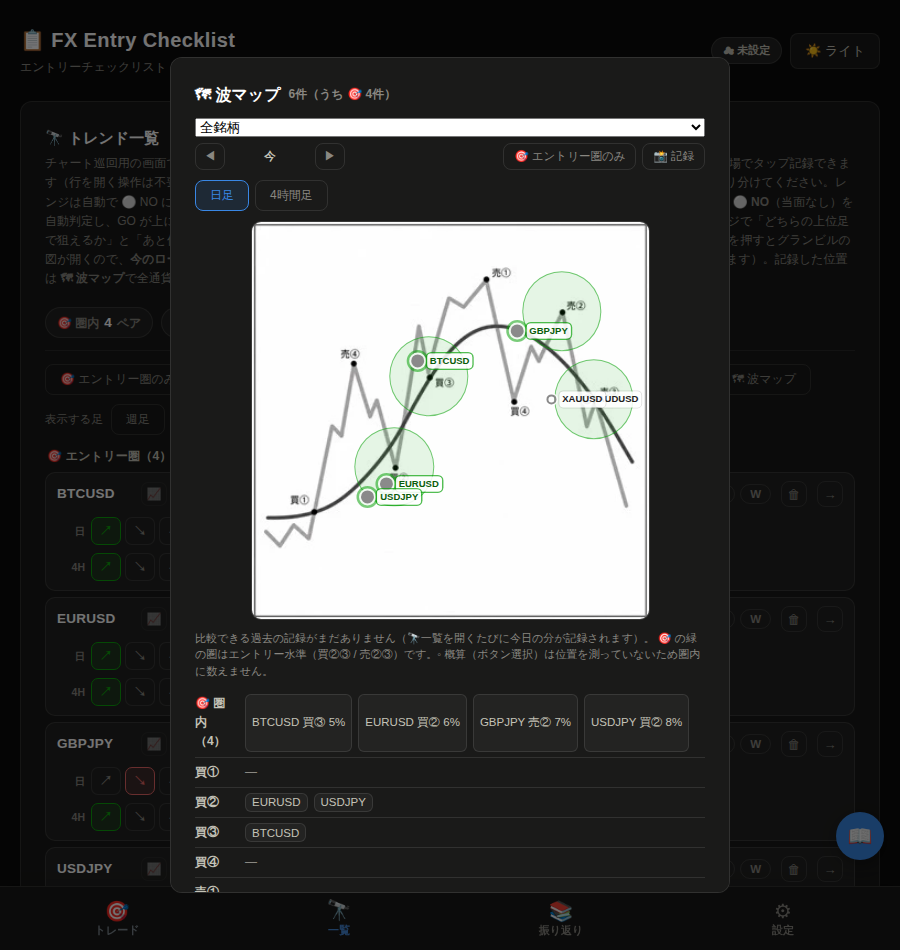
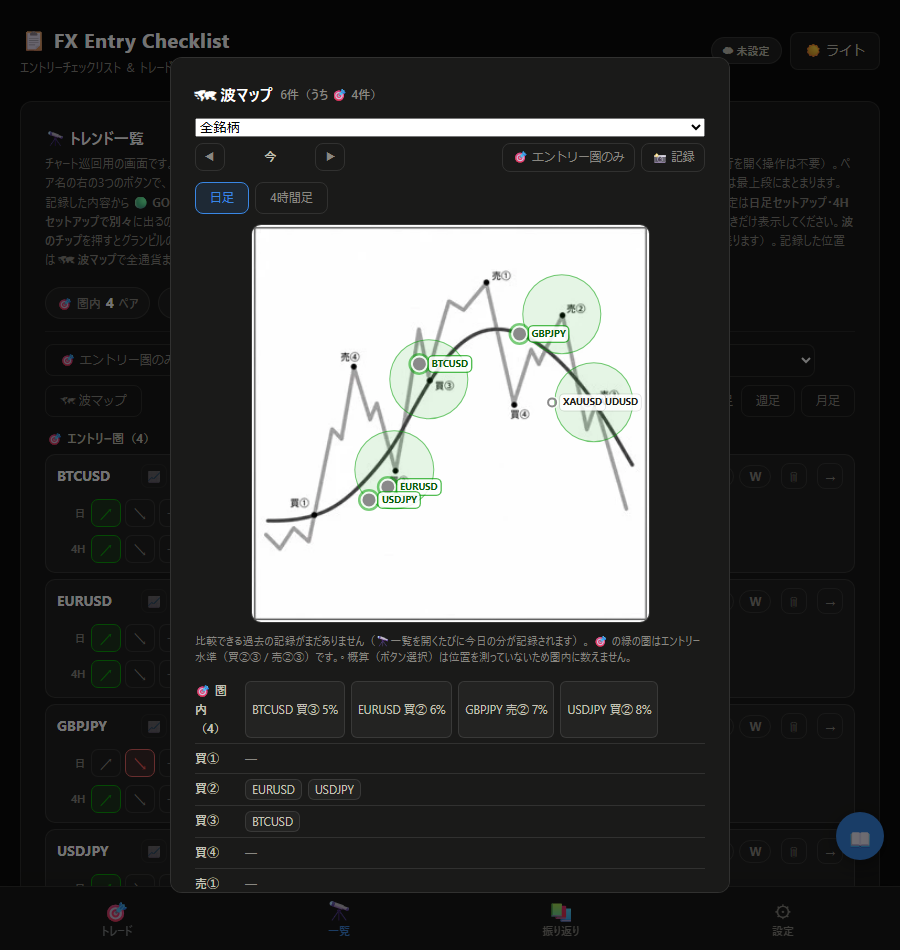
S48: 🎯根拠ボタンを常時表示に変更（圏内は強調、圏外は中立色）
ユースケース: エントリー圏外のうちからRCI/MACDなどの根拠をあらかじめ記録して
おき、条件が揃うほど達成%（確度スコア）が上がり、段階的にエントリー準備を
整える運用を実現。

実装:
- trendEntryChipHtml(): 距離がnullや圏外でも常時ボタン/チップを出す
- CSS .tent.muted: 圏外・未記録時の中立色（グレー）
- 圏内は従来通り緑で強調、パネル開くと.openが緑で優先
- S48対応にテストを更新: s44-test(61/61), s40-test(60/62 既知外)
- sw.js: v22→v23

スキーマ・CSV・端末間マージ・統計は無変更。

diff --git a/index.html b/index.html
@@ -1053,12 +1053,15 @@
   .gv-legend button.approx { border-style: dashed; color: var(--ink-muted); }
   .gv-legend button .st { font-size: 9px; }
 
-  /* S44: 行末のエントリー圏チップ兼「根拠パネルを開く」ボタン（圏内の足にだけ出る）。 */
+  /* S48: 行末のエントリー圏チップ兼「根拠パネルを開く」ボタン。常時表示、圏内だけ緑で強調。 */
   .tent {
     display: inline-flex; align-items: center; gap: 3px; flex: 0 0 auto;
     font-family: inherit; font-size: 10.5px; font-weight: 700; letter-spacing: 0.02em;
     padding: 3px 7px; border-radius: 999px; white-space: nowrap;
     border: 1px solid var(--good); background: var(--good-soft); color: var(--good);
+  }
+  .tent.muted {
+    border-color: var(--border); background: var(--surface-2); color: var(--ink-2);
   }
   .tent-btn { cursor: pointer; }
   .tent-btn:active { transform: scale(0.96); }
@@ -4195,24 +4198,26 @@ function trendJudgeBtnsHtml(w) {
     esc(j.label.slice(0, 1)) + '</button>').join('');
 }
 
-/* S44: 足1本ぶんのエントリー圏チップと、根拠パネルを開くボタン。
-   図の上でタップして記録した位置が圏内（買②③/売②③ ± GV_ENTRY_RADIUS）のときだけ出す。
-   ⚠ 圏外・概算（wpos が空）・未記録では何も出さない。押しても意味のないボタンを置かないため
-      （S42-③「押しても反応しない」の再演を避ける）。
+/* S48: 足1本ぶんのエントリー圏チップと、根拠パネルを開くボタン。
+   S44 では圏内（買②③/売②④ ± GV_ENTRY_RADIUS）の足にだけ出していたが、
+   「圏外のうちから RCI/MACD などの根拠をあらかじめ記録しておき、条件が揃うほど
+   達成%が上がっていく」運用のため、常時表示に変更（距離が無くても・圏外でも押せる）。
+   圏内は緑の強調、それ以外は中立色で「まだ記録できる」ことだけ示す。
    ⚠ 月足のように MV_TREND_KEY_TO_TF が引けない足はボタンを出さない。引けないと tfHigher に
       入れる値が無く、パネルを開いても marketFieldsFromBoard() の要求を満たせない。 */
 function trendEntryChipHtml(w, tfKey) {
   const d = tfEntryDistance(w, tfKey);
-  if (d === null || d > GV_ENTRY_RADIUS) return '';
+  const hot = d !== null && d <= GV_ENTRY_RADIUS;
   const open = trendPanel && trendPanel.id === w.id && trendPanel.tfKey === tfKey;
   /* ⚠ チップとボタンを1つにまとめてある。375px の入力行に残っている余白は 40px 弱しかなく、
-     2要素にすると圏内の行だけが2段に折り返して巡回の縦スクロールが増える。
+     2要素にすると2段に折り返して巡回の縦スクロールが増える。
      幅を食う「％」と「根拠」は狭い画面では CSS で畳み、title と 🎯 だけ残す。 */
-  const body = '🎯<span class="d">' + Math.round(d) + '%</span><span class="d">根拠</span>';
-  const title = 'エントリー水準まで ' + d.toFixed(1) + '%';
+  const pct = d === null ? '' : '<span class="d">' + Math.round(d) + '%</span>';
+  const body = '🎯' + pct + '<span class="d">根拠</span>';
+  const title = d === null ? 'この足の根拠を記録' : 'エントリー水準まで ' + d.toFixed(1) + '%';
   if (!MV_TREND_KEY_TO_TF[tfKey])
-    return '<span class="tent" title="' + esc(title) + '">' + body + '</span>';
-  return '<button type="button" class="tent tent-btn' + (open ? ' open' : '') + '"' +
+    return '<span class="tent' + (hot ? '' : ' muted') + '" title="' + esc(title) + '">' + body + '</span>';
+  return '<button type="button" class="tent tent-btn' + (hot ? '' : ' muted') + (open ? ' open' : '') + '"' +
     ' data-trend-panel-open="' + esc(w.id) + '" data-tf="' + esc(tfKey) + '"' +
     ' title="' + esc(title + '。この足を上位足にして根拠を記録') + '">' + body + '</button>';
 }

diff --git a/sw.js b/sw.js
@@ -6,7 +6,7 @@
  * ⚠ index.html を更新したら CACHE の版番号を上げること。
  *   上げ忘れても HTML は network-first なので最新が届くが、assets の差し替えは届かない。
  */
-const CACHE = 'fx-checklist-v22';
+const CACHE = 'fx-checklist-v23';
 
 /* 起動に最低限必要なもの。画像は重いので事前取得せず、使われたときに入れる。 */
 const PRECACHE = ['./', './index.html', './manifest.webmanifest',
